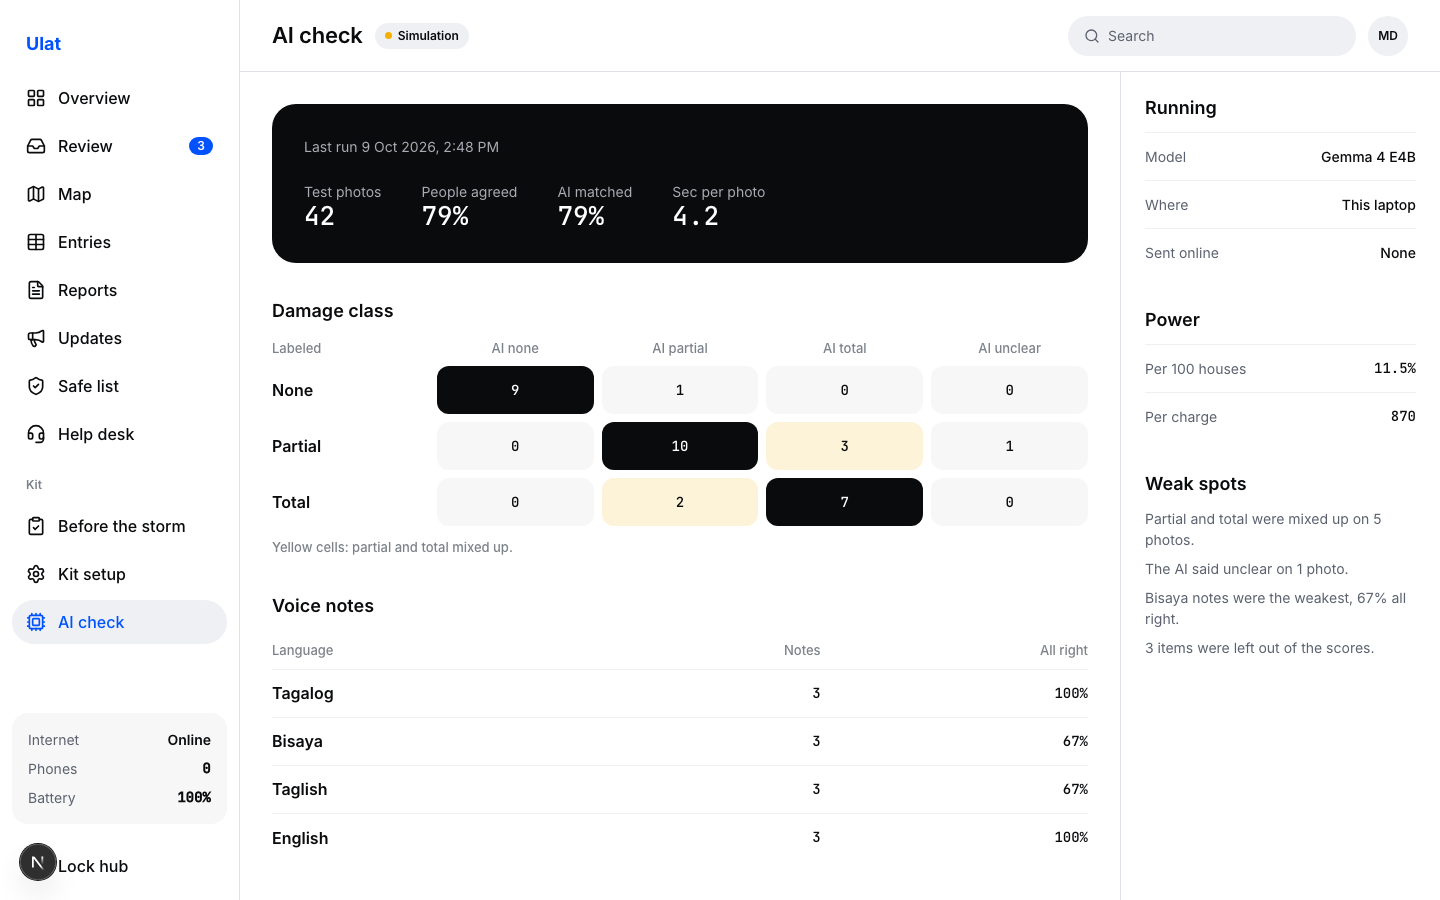
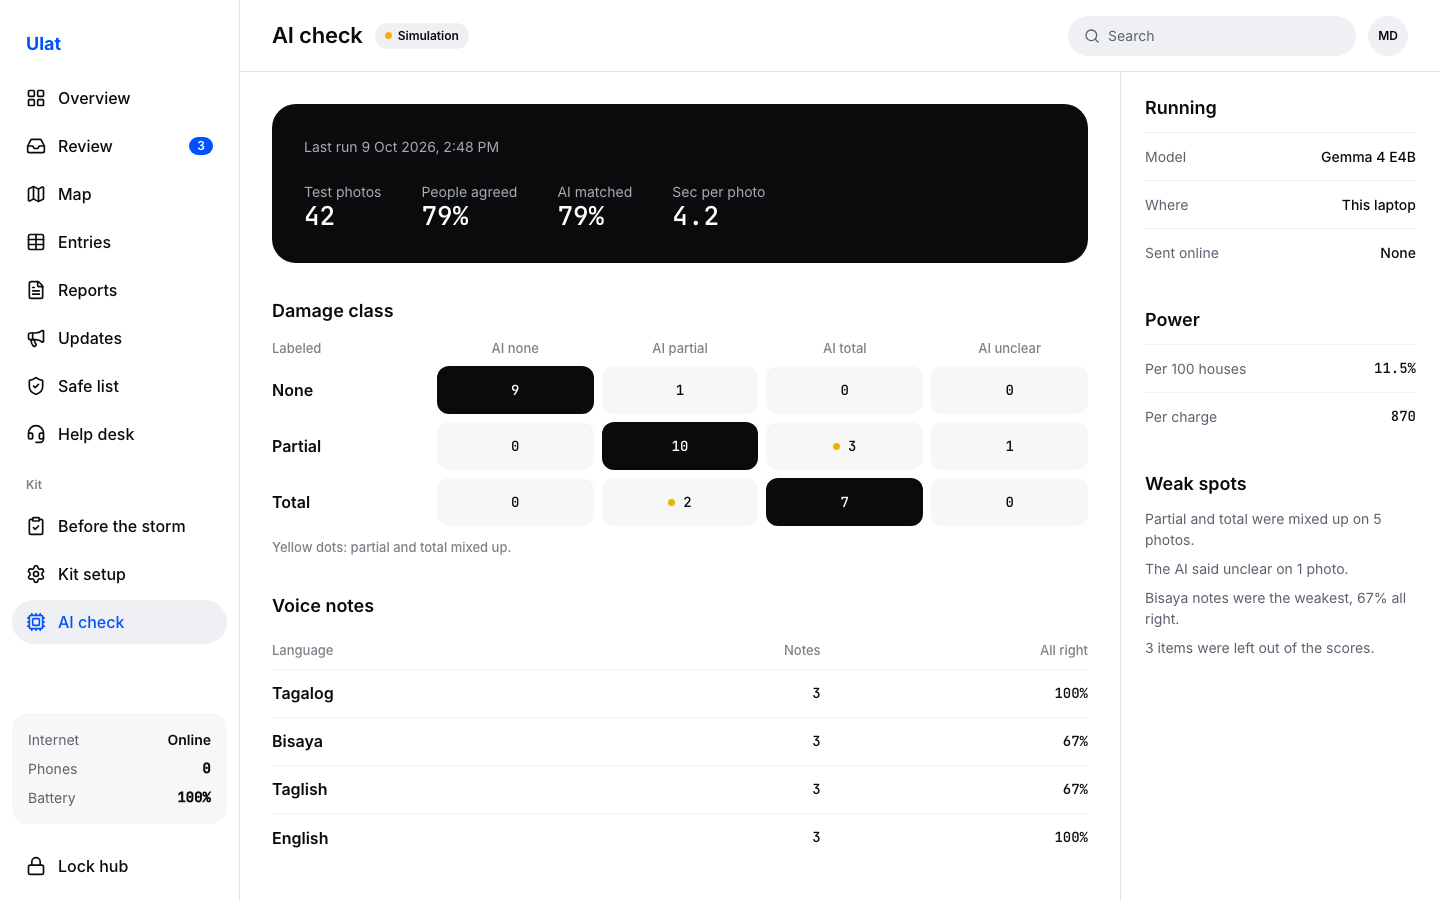
fix(hub): staff check before kit page reads, wifi_name setting, warning dots BYTE-49
The three kit pages call requireStaffPage() first, so a visitor without a staff
session goes to the lock screen before any status, responder or results read.
The Wi-Fi name comes from the wifi_name setting like the overview, with ULAT-HUB
as the fallback. DESIGN.md has no yellow fill token and keeps warning to dots,
so the partial and total mixed up cells carry a warning dot instead.

diff --git a/src/lib/hub/setup.ts b/src/lib/hub/setup.ts
@@ -14,8 +14,8 @@ import { formatBattery } from "./status";
 // hub's own files and database. A value the hub cannot read says so, and is
 // never filled in. Server only.
 
-/** The Wi-Fi name SPEC section 1 gives the router. The hub cannot read it from the router. */
-export const WIFI_NAME = "ULAT-HUB";
+/** The Wi-Fi name SPEC section 1 gives the router, used when the wifi_name setting is empty. */
+export const DEFAULT_WIFI_NAME = "ULAT-HUB";
 
 export type Tone = "success" | "warning" | "danger" | "primary" | "muted-soft";
 export type SetupPill = { label: string; tone: Tone };
@@ -102,10 +102,12 @@ export type SetupInputs = {
   domain: string | undefined;
   map: MapPackage;
   responders: ResponderRow[];
+  /** The wifi_name setting, as the overview reads it. */
+  wifiName?: string;
 };
 
 /** Turns what the hub read into the cards. Pure, so a test can hand it any state. */
-export function buildKitSetup({ status, certificate, domain, map, responders }: SetupInputs): KitSetup {
+export function buildKitSetup({ status, certificate, domain, map, responders, wifiName }: SetupInputs): KitSetup {
   const address: SetupPill =
     certificate.state === "valid"
       ? { label: "Trusted", tone: "success" }
@@ -120,7 +122,7 @@ export function buildKitSetup({ status, certificate, domain, map, responders }: 
   return {
     network: {
       pill: status.phones > 0 ? { label: "Working", tone: "success" } : { label: "No phones", tone: "muted-soft" },
-      wifi: WIFI_NAME,
+      wifi: wifiName?.trim() || DEFAULT_WIFI_NAME,
       phones: status.phones,
       internet: status.internet ? "Connected" : "None",
     },
@@ -162,12 +164,13 @@ export function buildKitSetup({ status, certificate, domain, map, responders }: 
 }
 
 /** Reads the hub and builds the cards. status is the readHubStatus result, the same one GET /api/hub/status sends. */
-export function readKitSetup(db: Db, status: HubStatus, now: Date = new Date()): KitSetup {
+export function readKitSetup(db: Db, status: HubStatus, wifiName?: string, now: Date = new Date()): KitSetup {
   return buildKitSetup({
     status,
     certificate: readCertificate(certDir(), now),
     domain: process.env.HUB_DOMAIN,
     map: readMapPackage(),
     responders: readActiveResponders(db),
+    wifiName,
   });
 }

diff --git a/src/components/hub/kit/ai-check-sections.tsx b/src/components/hub/kit/ai-check-sections.tsx
@@ -1,5 +1,6 @@
 import * as React from "react";
 import { DarkHero } from "@/components/ui/dark-hero";
+import { StatusDot } from "@/components/ui/status-dot";
 import { cn } from "@/lib/utils";
 import { formatDate, formatTime } from "@/lib/time";
 import {
@@ -49,7 +50,7 @@ export function AiCheckEmpty({ reading }: { reading: Exclude<AiCheckReading, { s
   );
 }
 
-/** Labeled by people on the left, answered by the AI across the top. Partial and total mixed up are marked. */
+/** Labeled by people on the left, answered by the AI across the top. Partial and total mixed up carry a warning dot. */
 export function DamageClassTable({ results }: { results: EvalResultsFile }) {
   const matrix = results.photos.confusion_matrix;
   return (
@@ -81,10 +82,11 @@ export function DamageClassTable({ results }: { results: EvalResultsFile }) {
                   key={answer.id}
                   role="cell"
                   className={cn(
-                    "flex h-12 items-center justify-center rounded-md font-mono text-mono-sm tabular",
-                    correct ? "bg-surface-dark text-canvas" : mixedUp ? "bg-warning/15 text-ink" : "bg-surface-soft text-ink",
+                    "flex h-12 items-center justify-center gap-2 rounded-md font-mono text-mono-sm tabular",
+                    correct ? "bg-surface-dark text-canvas" : "bg-surface-soft text-ink",
                   )}
                 >
+                  {mixedUp ? <StatusDot tone="warning" label="Partial and total mixed up" /> : null}
                   {formatCount(matrix[row.id][answer.id])}
                 </span>
               );
@@ -92,7 +94,7 @@ export function DamageClassTable({ results }: { results: EvalResultsFile }) {
           </div>
         ))}
       </div>
-      <p className="mt-3 text-caption text-muted-text">Yellow cells: partial and total mixed up.</p>
+      <p className="mt-3 text-caption text-muted-text">Yellow dots: partial and total mixed up.</p>
     </section>
   );
 }

diff --git a/src/lib/hub/staff-page.test.ts b/src/lib/hub/staff-page.test.ts
@@ -1,0 +1,44 @@
+import { beforeEach, describe, expect, it, vi } from "vitest";
+
+// The cookie jar, the session check and the redirect are faked. redirect()
+// throws in Next, so the fake does too, and a page stops there.
+const cookieValue = vi.hoisted(() => ({ current: undefined as string | undefined }));
+const readSession = vi.hoisted(() => vi.fn());
+const redirect = vi.hoisted(() =>
+  vi.fn((to: string) => {
+    throw new Error(`NEXT_REDIRECT ${to}`);
+  }),
+);
+vi.mock("next/headers", () => ({ cookies: async () => ({ get: () => (cookieValue.current ? { value: cookieValue.current } : undefined) }) }));
+vi.mock("next/navigation", () => ({ redirect }));
+vi.mock("@/lib/auth/session", () => ({ readSession, SESSION_COOKIE: { staff: "ulat_staff", responder: "ulat_responder" } }));
+
+import { requireStaffPage } from "./staff-page";
+
+beforeEach(() => {
+  cookieValue.current = undefined;
+  readSession.mockReset();
+  redirect.mockClear();
+});
+
+describe("requireStaffPage", () => {
+  it("sends a visitor with no cookie to the lock screen", async () => {
+    readSession.mockResolvedValue(null);
+    await expect(requireStaffPage()).rejects.toThrow("NEXT_REDIRECT /hub/lock");
+    expect(readSession).toHaveBeenCalledWith("staff", undefined);
+  });
+
+  it("sends a visitor whose cookie is not a staff session to the lock screen", async () => {
+    cookieValue.current = "forged";
+    readSession.mockResolvedValue(null);
+    await expect(requireStaffPage()).rejects.toThrow("NEXT_REDIRECT /hub/lock");
+    expect(readSession).toHaveBeenCalledWith("staff", "forged");
+  });
+
+  it("lets staff through", async () => {
+    cookieValue.current = "signed";
+    readSession.mockResolvedValue({ role: "staff", exp: Date.now() + 1000 });
+    await expect(requireStaffPage()).resolves.toBeUndefined();
+    expect(redirect).not.toHaveBeenCalled();
+  });
+});

diff --git a/src/app/hub/kit-pages-guard.test.ts b/src/app/hub/kit-pages-guard.test.ts
@@ -1,0 +1,43 @@
+import { beforeEach, describe, expect, it, vi } from "vitest";
+
+// Each kit page must check for staff before it reads anything. The guard is
+// faked to refuse, and every read the pages make is a spy that must stay unused.
+const reads = vi.hoisted(() => ({
+  readHubStatus: vi.fn(),
+  readKitSetup: vi.fn(),
+  readChecklist: vi.fn(),
+  readEvalResults: vi.fn(),
+  readSetting: vi.fn(),
+}));
+const requireStaffPage = vi.hoisted(() => vi.fn());
+
+vi.mock("@/lib/hub/staff-page", () => ({ requireStaffPage }));
+vi.mock("@/db/client", () => ({ db: {} }));
+vi.mock("@/lib/status", () => ({ readHubStatus: reads.readHubStatus }));
+vi.mock("@/lib/hub/setup", () => ({ readKitSetup: reads.readKitSetup }));
+vi.mock("@/lib/hub/checklist", async (original) => ({ ...(await original<typeof import("@/lib/hub/checklist")>()), readChecklist: reads.readChecklist }));
+vi.mock("@/lib/hub/ai-check", () => ({ readEvalResults: reads.readEvalResults }));
+vi.mock("@/lib/auth/settings", () => ({ readSetting: reads.readSetting }));
+
+const pages = {
+  setup: () => import("./setup/page"),
+  checklist: () => import("./checklist/page"),
+  "ai-check": () => import("./ai-check/page"),
+};
+
+beforeEach(() => {
+  for (const spy of Object.values(reads)) spy.mockReset();
+  requireStaffPage.mockReset();
+  requireStaffPage.mockRejectedValue(new Error("NEXT_REDIRECT /hub/lock"));
+});
+
+describe("kit pages", () => {
+  for (const [name, load] of Object.entries(pages)) {
+    it(`/hub/${name} redirects before it reads anything`, async () => {
+      const page = (await load()).default;
+      await expect(page()).rejects.toThrow("NEXT_REDIRECT /hub/lock");
+      expect(requireStaffPage).toHaveBeenCalledOnce();
+      for (const spy of Object.values(reads)) expect(spy).not.toHaveBeenCalled();
+    });
+  }
+});

diff --git a/src/app/hub/setup/page.tsx b/src/app/hub/setup/page.tsx
@@ -7,10 +7,12 @@ import { SimulationSwitch } from "@/components/hub/kit/simulation-switch";
 import { HubPage } from "@/components/hub/hub-page";
 import { buttonVariants } from "@/components/ui/button";
 import { db } from "@/db/client";
+import { readSetting } from "@/lib/auth/settings";
 import { routes } from "@/lib/contracts/routes";
 import { modelLabel } from "@/lib/hub/kit-format";
 import { OLLAMA_MODEL } from "@/lib/ai/config";
 import { readKitSetup } from "@/lib/hub/setup";
+import { requireStaffPage } from "@/lib/hub/staff-page";
 import { readHubStatus } from "@/lib/status";
 
 export const metadata: Metadata = { title: "Kit setup" };
@@ -23,7 +25,9 @@ const secondary = buttonVariants({ variant: "secondary", size: "hub" });
 // The status is the one GET /api/hub/status sends. Values the hub cannot read
 // show as Unknown, Not set or None, and nothing is filled in.
 export default async function KitSetupPage() {
-  const kit = readKitSetup(db, await readHubStatus());
+  // The responders card names people, so the page is staff only, like GET /api/hub/status.
+  await requireStaffPage();
+  const kit = readKitSetup(db, await readHubStatus(), readSetting("wifi_name"));
 
   return (
     <HubPage title="Kit setup" active={routes.hub.setup}>

diff --git a/src/lib/hub/setup.test.ts b/src/lib/hub/setup.test.ts
@@ -145,6 +145,15 @@ describe("buildKitSetup", () => {
   it("shows the status it was given and nothing else", () => {
     const kit = buildKitSetup(inputs());
     expect(kit.network).toEqual({ pill: { label: "Working", tone: "success" }, wifi: "ULAT-HUB", phones: 9, internet: "None" });
+  });
+
+  it("shows the wifi_name setting, and ULAT-HUB when it is empty", () => {
+    expect(buildKitSetup(inputs({ wifiName: "ULAT-DRILL" })).network.wifi).toBe("ULAT-DRILL");
+    expect(buildKitSetup(inputs({ wifiName: "  " })).network.wifi).toBe("ULAT-HUB");
+  });
+
+  it("builds the other cards from the status", () => {
+    const kit = buildKitSetup(inputs());
     expect(kit.power).toEqual({ pill: { label: "On battery", tone: "warning" }, battery: "68%", storageFree: "120.5 GB" });
     expect(kit.ai.pill).toEqual({ label: "Loaded", tone: "success" });
     expect(kit.address).toEqual({ pill: { label: "Trusted", tone: "success" }, domain: "hub.example.dev", expires: "7 Jan 2027" });

diff --git a/src/app/hub/ai-check/page.tsx b/src/app/hub/ai-check/page.tsx
@@ -3,6 +3,7 @@ import { AiCheckEmpty, AiCheckHero, AiCheckRail, DamageClassTable, VoiceNotesTab
 import { HubPage } from "@/components/hub/hub-page";
 import { routes } from "@/lib/contracts/routes";
 import { readEvalResults } from "@/lib/hub/ai-check";
+import { requireStaffPage } from "@/lib/hub/staff-page";
 
 export const metadata: Metadata = { title: "AI check" };
 
@@ -11,6 +12,7 @@ export const dynamic = "force-dynamic";
 
 // Shows what `pnpm eval` wrote. It never calls the model.
 export default async function AiCheckPage() {
+  await requireStaffPage();
   const reading = await readEvalResults();
   return (
     <HubPage title="AI check" active={routes.hub.aiCheck} rail={<AiCheckRail reading={reading} />}>

diff --git a/src/app/hub/checklist/page.tsx b/src/app/hub/checklist/page.tsx
@@ -6,6 +6,7 @@ import { db } from "@/db/client";
 import { routes } from "@/lib/contracts/routes";
 import { readChecklist } from "@/lib/hub/checklist";
 import { readKitSetup } from "@/lib/hub/setup";
+import { requireStaffPage } from "@/lib/hub/staff-page";
 import { readHubStatus } from "@/lib/status";
 
 export const metadata: Metadata = { title: "Before the storm" };
@@ -14,6 +15,7 @@ export const metadata: Metadata = { title: "Before the storm" };
 export const dynamic = "force-dynamic";
 
 export default async function ChecklistPage() {
+  await requireStaffPage();
   const checklist = readChecklist(db);
   const { kitNow } = readKitSetup(db, await readHubStatus());
 

diff --git a/src/lib/hub/staff-page.ts b/src/lib/hub/staff-page.ts
@@ -1,0 +1,14 @@
+import { cookies } from "next/headers";
+import { redirect } from "next/navigation";
+import { readSession, SESSION_COOKIE } from "@/lib/auth/session";
+import { routes } from "@/lib/contracts/routes";
+
+/**
+ * Staff only, for a hub page that reads data. Call it first, before any read,
+ * and the visitor goes to the lock screen when the cookie has no staff session.
+ * src/proxy.ts redirects first; this check does not rely on it.
+ */
+export async function requireStaffPage(): Promise<void> {
+  const session = await readSession("staff", (await cookies()).get(SESSION_COOKIE.staff)?.value);
+  if (!session) redirect(routes.hub.lock);
+}
